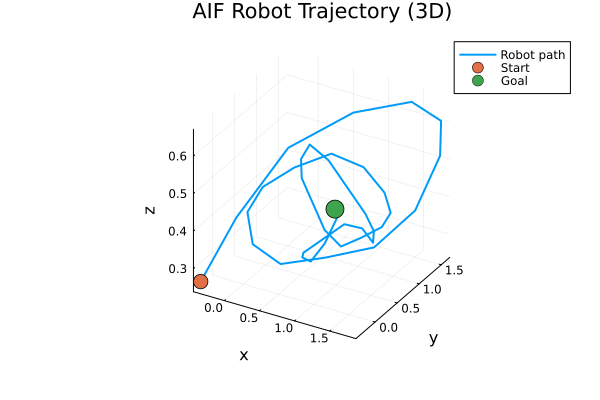
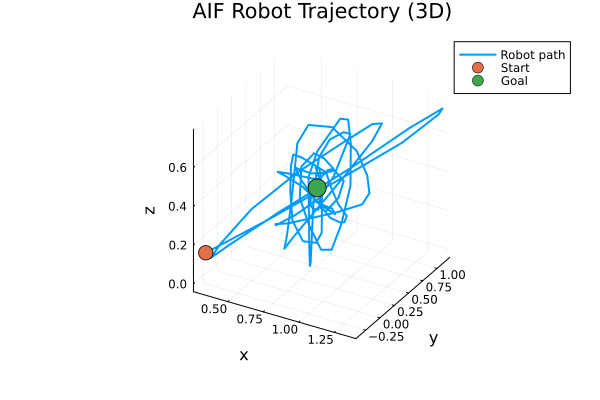
docs modified

diff --git a/docs/run_cli.md b/docs/run_cli.md
@@ -1,0 +1,70 @@
+# `scripts/run_cli.jl` — CLI and Render Arm
+
+## Purpose
+
+Command-line interface for running AIF simulations and visualising results. Supports MuJoCo render and Panda arm pick-and-place replay.
+
+## Usage
+
+```bash
+julia --project=. scripts/run_cli.jl --goal <x> <y> <z> --init <x> <y> <z> [options]
+```
+
+## Options
+
+| Option | Description | Default |
+|--------|-------------|---------|
+| `--goal` | Goal position (x y z) | 0.8 0.8 0.4 |
+| `--init` | Initial position (x y z) | -0.5 -0.5 0.2 |
+| `--steps` | Max simulation steps | 500 |
+| `--ctrl_scale` | Control scaling | 4.0 |
+| `--obs_noise` | Observation variance (σ²) | 0.01 |
+| `--process_noise` | Process noise variance | 0.005 |
+| `--save_plot` | Path to save trajectory plot | (none) |
+| `--render` | Launch MuJoCo visualiser | false |
+| `--renderarm` | Panda arm replay + pick-and-place scene | false |
+| `--agent_color` | Agent geom color r g b [a] | (default) |
+| `--goal_color` | Goal marker color r g b [a] | (default) |
+| `--seed` | Random seed | 42 |
+| `--verbose` | Print step logs | true |
+
+## Render Arm (`--renderarm`)
+
+Replays the AIF trajectory on a Panda arm with a pick-and-place scene.
+
+### Scene
+
+- **Red sphere** at `--init` (the object to pick up)
+- **Green box** at `--goal` (the place target)
+
+### Sequence
+
+1. **Pickup**: Arm moves to init position (first waypoint). Red ball stays at init.
+2. **Carry**: When arm reaches init, red ball follows arm end effector along the AIF trajectory.
+3. **Drop**: When trajectory completes, red ball is placed on top of the green box.
+
+### Trajectory
+
+The Panda trajectory is `[init_clamped, pos_1, pos_2, ...]` — init is prepended so the arm first goes to the red ball. All positions are clamped to the Panda workspace.
+
+### Bounds
+
+**Output** (Panda arm workspace):
+
+| Axis | Min | Max |
+|------|-----|-----|
+| X | 0.2 | 0.8 |
+| Y | -0.4 | 0.4 |
+| Z | 0.1 | 0.5 |
+
+**Recommended input** for `--goal` and `--init`: same as above.
+
+### Example
+
+Use init/goal within Panda bounds (X 0.2–0.8, Y -0.4–0.4, Z 0.1–0.5) so the arm can reach both the red ball and green box:
+
+```bash
+julia --project=. scripts/run_cli.jl --goal 0.8 0.8 0.4 --init 0.3 0.0 0.2 --steps 500 --ctrl_scale 5.0 --save_plot trajectory.png --renderarm
+```
+
+If init is outside bounds (e.g. -0.5 -0.5 0.2), the arm goes to the clamped position; the red ball stays at init and may not align with the arm for pickup.

diff --git a/README.md b/README.md
@@ -27,7 +27,7 @@ julia --project=. scripts/run_cli.jl --goal <x> <y> <z> --init <x> <y> <z> [opti
 | `--goal` | Goal position (x y z) | 0.8 0.8 0.4 |
 | `--init` | Initial position (x y z) | -0.5 -0.5 0.2 |
 | `--steps` | Max simulation steps | 500 |
-| `--ctrl_scale` | Control scaling | 5.0 |
+| `--ctrl_scale` | Control scaling | 4.0 |
 | `--obs_noise` | Observation variance (σ²) | 0.01 |
 | `--process_noise` | Process noise variance | 0.005 |
 | `--save_plot` | Path to save trajectory plot | (none) |
@@ -40,7 +40,8 @@ Replays the AIF trajectory on a Panda arm with a pick-and-place scene:
 
 - **Red sphere** at initial position (from `--init`)
 - **Green box** at goal position (from `--goal`)
-- After trajectory completes, red object is placed on top of the green box
+
+**Sequence**: (1) Arm moves to init → pickup red ball. (2) Red ball follows arm along AIF trajectory → carry. (3) Red ball placed on top of green box → drop. Trajectory is prepended with init so the arm first goes to the red ball.
 
 **Output bounds** (Panda arm workspace; trajectory is clamped):
 
@@ -53,7 +54,8 @@ Replays the AIF trajectory on a Panda arm with a pick-and-place scene:
 **Recommended input bounds** for `--goal` and `--init`: same as above.
 
 ```bash
-julia --project=. scripts/run_cli.jl --goal 0.8 0.8 0.4 --init -0.5 -0.5 0.2 --steps 500 --ctrl_scale 5.0 --save_plot trajectory.png --renderarm
+# Use init within Panda bounds (0.2–0.8, -0.4–0.4, 0.1–0.5) for pickup to work
+julia --project=. scripts/run_cli.jl --goal 0.8 0.8 0.4 --init 0.3 0.0 0.2 --steps 500 --ctrl_scale 5.0 --save_plot trajectory.png --renderarm
 ```
 
 ## MuJoCo GUI Viewer
@@ -86,6 +88,7 @@ Requires a display (WSLg or X11 on WSL2).
 
 ## Per-File Documentation
 
+- `docs/run_cli.md` - CLI usage and render arm (pickup, carry, drop)
 - `docs/aif_beliefs.md` - Belief state (per-dimension noise, covariance bounds)
 - `docs/aif_efe.md` - Expected Free Energy (ctrl_scale in prediction)
 - `docs/aif_policy.md` - Policy selection (5×5×5 action set)

diff --git a/docs/models.md b/docs/models.md
@@ -12,10 +12,11 @@ Main 3D robot scene for AIF simulation:
 
 Scene for `--renderarm`: Panda arm with pick-and-place visuals.
 
-- **Red object** (mocap): sphere at initial position
+- **Red object** (mocap): sphere at initial position. Stays at init until arm reaches it (pickup), then follows arm along trajectory (carry), then placed on top of green box (drop).
 - **Green box**: static at goal position
 - Includes `panda_mocap.xml` for the arm
 - Positions substituted at runtime from `--init` and `--goal`
+- Trajectory: `[init_clamped, pos_1, pos_2, ...]` — arm first goes to init for pickup
 
 ## `models/scene.xml`
 

diff --git a/docs/sim_mujoco_env.md b/docs/sim_mujoco_env.md
@@ -18,7 +18,7 @@ Wraps MuJoCo for the 3D robot: load model, reset, step, and read state.
 ## Model layout
 
 - `qpos[1]`, `qpos[2]`, `qpos[3]`: x, y, z (slide joints)
-- `ctrl[1]`, `ctrl[2]`, `ctrl[3]`: velocity commands for x, y, z
+- `ctrl[1]`, `ctrl[2]`, `ctrl[3]`: displacement (target = pos + ctrl) for x, y, z
 
 ## `step!(env, ctrl; nsteps)`
 
